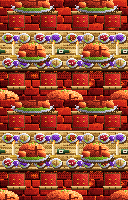
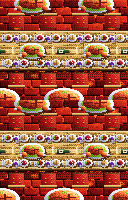
The Third Circle of Hell: Fassung 1 wiederhergestellt (Layout und Figuren wie ausgeliefert), mit mehr Detailgrad (#263)
Claude-Session: https://claude.ai/code/session_017w1WSVLJmMhrYiYjox7ThU

diff --git a/public/app-areas.jsx b/public/app-areas.jsx
@@ -5181,20 +5181,19 @@ const SecondCircleOfHellOverlay = React.memo(function SecondCircleOfHellOverlay(
 });
 
 // ═══════════════════════════════════════════════════════════════════
-//  THE THIRD CIRCLE OF HELL — der Kreis der Voelllerei (Al 2.10., Feinschliff: viel mehr Detailgrad)
+//  THE THIRD CIRCLE OF HELL — der Kreis der Voelllerei (Al 2.10., Feinschliff: mehr Detailgrad)
 //
 //  Karte: ein Banketttisch auf Hoellenboden, Teller mit Truthaehnen und Braten ueberall drumrum,
 //  Dampf steigt auf, Kerzen scheinen, es gibt Wein — ein Festmahl. Palette nach dem Kartenbild:
 //  rot-orange Hoellenboden, Holztisch, lindgruene Platten, Braten, Violett fuer die Kelche.
-//  Draufsicht; die Fresser sitzen frontal hinter dem Tisch. Ihr Aussehen folgt der Karte: wilder goldener
-//  Haarschopf, grosses weisses Auge mit gruener Pupille, cyanfarbene Traene, dunkelrote Robe mit Perlenkragen.
+//  Draufsicht; die Fresser sitzen frontal hinter dem Tisch (wie auf der Karte).
 //
 //  Ebenen (Kunsthoehe 100; per Generator gemalt, der nicht im Projekt liegt): tile.png — Kachel 128
-//  mit ZWEI Bildern untereinander (128×200): Boden (Backsteine mit Licht/Schatten, Glut in den Fugen,
-//  Risse), Stuehle, Tisch (gemaserte Bretter, Astloecher, Naegel, Flecken), Gedecke, Kelche, Truthaehne,
-//  Flaschen, Kerzen mit Haltern, grosse Platten am Rand; Bild 2 = Kerzenflackern; glutton.png — Fresser
-//  (4 Bilder 30×32: kauen, Backen voll, Keule am Mund, Blinzeln; 2 Varianten untereinander:
-//  goldblond / rotblond); steam.png — Dampf (3 Bilder 8×16).
+//  mit ZWEI Bildern untereinander (128×200): Boden, Stuehle, Tisch (Gedecke, Kelche, Truthaehne,
+//  Flaschen, Kerzen), grosse Platten am Rand; Bild 2 = Kerzenflackern; glutton.png — Fresser (3 Bilder
+//  18×20: kauen, Mund auf, Keule; 2 Varianten); steam.png — Dampf (3 Bilder 7×14).
+//  Feinschliff: geordnetes Dithering, mehrstufiges Shading (Licht oben rechts), Glut in den Fugen,
+//  gemaserte Bretter, schattierte Speisen/Kelche/Kerzen/Truthaehne und Figuren (gleiche Groesse und Aussehen).
 //  Die Kachel ist links ausgerichtet (Positionen der Aufbauten in Kunstpixeln vom linken Rand).
 //  ALLE Animationen teilen die Periode 12 s → nahtlose Schleife.
 // ═══════════════════════════════════════════════════════════════════
@@ -5202,7 +5201,7 @@ const TCI = '/areas/third-circle-of-hell/';
 const ThirdCircleOfHellOverlay = React.memo(function ThirdCircleOfHellOverlay() {
   const fresser = useMemo(() => Array.from({ length: 10 }, (_, k) => k).filter(k => k % 3 !== 1).map((k, i) => {
     const dur = [6, 12, 6][i % 3];
-    return { x: 16 + 32 * k, v: i % 2, dur, delay: -((i * 1.7) % dur) };
+    return { x: 16 + 32 * k, v: k % 2, dur, delay: -((i * 1.7) % dur) };
   }), []);
   const dampf = useMemo(() => {
     const out = [];
@@ -5217,19 +5216,19 @@ const ThirdCircleOfHellOverlay = React.memo(function ThirdCircleOfHellOverlay() 
     return out;
   }, []);
   return (
-    <PixelScene artH={100} bg="#4a0404" className="third-circle-overlay">
+    <PixelScene artH={100} bg="#4a0a0a" className="third-circle-overlay">
       <PixelBand src={TCI + 'tile.png'} className="tc-wand" style={{ backgroundSize: 'auto 200%', backgroundPosition: '0 0' }} />
       <div className="tc-volk">
         {fresser.map((f, i) => (
           <i key={'fr' + i} className="tc-fresser" style={{
-            left: ppArt(f.x - 15), top: ppArt(-1), width: ppArt(30), height: ppArt(32),
+            left: ppArt(f.x - 9), top: ppArt(11), width: ppArt(18), height: ppArt(20),
             backgroundPositionY: f.v ? '100%' : '0%',
             animation: `tcFressen ${f.dur}s steps(1) ${f.delay}s infinite`,
           }} />
         ))}
         {dampf.map((d, i) => (
           <i key={'d' + i} className="pp-area-dyn tc-dampf" style={{
-            left: ppArt(d.x - 4), top: ppArt(d.y),
+            left: ppArt(d.x - 3.5), top: ppArt(d.y),
             animation: `tcDampf ${d.dur}s linear ${d.delay}s infinite, tcDampfBild 1.2s steps(1) ${d.bild}s infinite`,
           }} />
         ))}
@@ -5243,20 +5242,19 @@ const ThirdCircleOfHellOverlay = React.memo(function ThirdCircleOfHellOverlay() 
           60%, 69% { background-position: 0 100%; } 70%, 100% { background-position: 0 0; }
         }
         .tc-volk { position: absolute; inset: 0; }
-        .tc-fresser { position: absolute; background: url(${TCI}glutton.png) 0 0 / 400% 200% no-repeat; }
-        /* Bilder: 0 kaut, 1 Backen voll, 2 Keule am Mund, 3 Blinzeln */
+        .tc-fresser { position: absolute; background: url(${TCI}glutton.png) 0 0 / 300% 200% no-repeat; }
+        /* Bilder: 0 kaut, 1 Mund auf, 2 Keule am Mund */
         @keyframes tcFressen {
-          0% { background-position-x: 0%; } 12% { background-position-x: 33.333%; } 24% { background-position-x: 0%; }
-          36% { background-position-x: 66.667%; } 52% { background-position-x: 33.333%; } 64% { background-position-x: 0%; }
-          85% { background-position-x: 100%; } 88% { background-position-x: 0%; }
+          0% { background-position-x: 0%; } 25% { background-position-x: 50%; } 40% { background-position-x: 100%; }
+          58% { background-position-x: 50%; } 70% { background-position-x: 0%; } 85% { background-position-x: 50%; }
         }
         .tc-dampf {
-          position: absolute; width: calc(8 * var(--px)); height: calc(16 * var(--px)); opacity: 0;
+          position: absolute; width: calc(7 * var(--px)); height: calc(14 * var(--px)); opacity: 0;
           background: url(${TCI}steam.png) 0 0 / 300% 100% no-repeat; z-index: 100;
         }
         @keyframes tcDampf {
           0% { opacity: 0; transform: translateY(calc(6 * var(--px))); } 20% { opacity: .85; }
-          70% { opacity: .5; } 100% { opacity: 0; transform: translateY(calc(-12 * var(--px))); }
+          70% { opacity: .5; } 100% { opacity: 0; transform: translateY(calc(-10 * var(--px))); }
         }
         @keyframes tcDampfBild { 0% { background-position-x: 0%; } 33% { background-position-x: 50%; } 66% { background-position-x: 100%; } }
       `}</style>

diff --git a/cards/effects/CARD_API.md b/cards/effects/CARD_API.md
@@ -18699,4 +18699,4 @@ Skripte `the-{second…eighth}-circle-of-hell.js` + geteiltes Modul `_hell-circl
 - **7.:** Zugende jedes Zuges: Spieler am Zug wählt (Pflicht) ein eigenes Ziel, 100 Schaden; beim Abgang wählt der Besitzer (Pflicht) ein beliebiges Ziel, 150 Schaden (Typ `other`).
 - **8.:** `beforeDrawBatch` (Effekt-Ziehen, nicht „Draw for turn"): der GEGNER des Ziehenden darf diese Area (egal welcher Seite) löschen und gleich viele Karten ziehen — wortgetreu für beide Seiten. Diese Löschung löst die Rückhol-Klausel nicht aus („another card's effect").
 
-Hintergründe (`public/app-areas.jsx`): **2. Kreis** = echte Pixelart `SecondCircleOfHellOverlay` (`public/areas/second-circle-of-hell/`: `tile.png` 128×200 mit zwei Bildern = Herzschlag der Augen, `girl.png`, `girl-far.png`, `heart.png`); **3. Kreis** = `ThirdCircleOfHellOverlay` (`public/areas/third-circle-of-hell/`: `tile.png` 128×200 (Bild 2 = Kerzenflackern), `glutton.png` 4 Bilder × 2 Varianten (30×32), `steam.png`; links ausgerichtet, Periode 12 s; Hoher Detailgrad: Dithering, mehrstufiges Shading); die Kreise 4–8 sind bis zur Pixelart prozedurale Platzhalter (`HellCircleOverlay`, je Kreis eigene Farbwelt).
+Hintergründe (`public/app-areas.jsx`): **2. Kreis** = echte Pixelart `SecondCircleOfHellOverlay` (`public/areas/second-circle-of-hell/`: `tile.png` 128×200 mit zwei Bildern = Herzschlag der Augen, `girl.png`, `girl-far.png`, `heart.png`); **3. Kreis** = `ThirdCircleOfHellOverlay` (`public/areas/third-circle-of-hell/`: `tile.png` 128×200 (Bild 2 = Kerzenflackern), `glutton.png` 3 Bilder × 2 Varianten (18×20), `steam.png` (3×7×14); links ausgerichtet, Periode 12 s; hoher Detailgrad: Dithering, mehrstufiges Shading); die Kreise 4–8 sind bis zur Pixelart prozedurale Platzhalter (`HellCircleOverlay`, je Kreis eigene Farbwelt).
